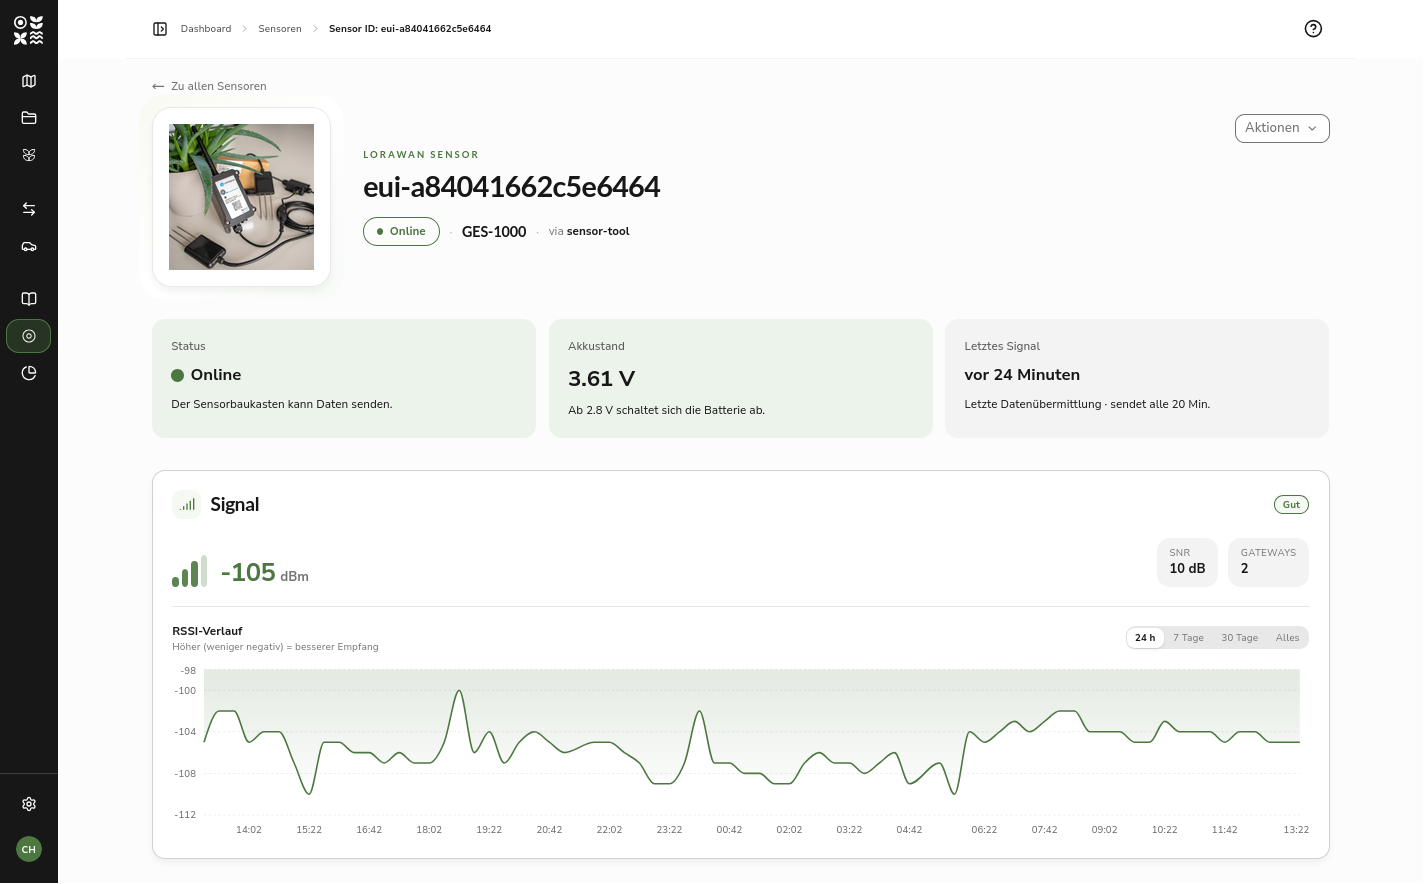
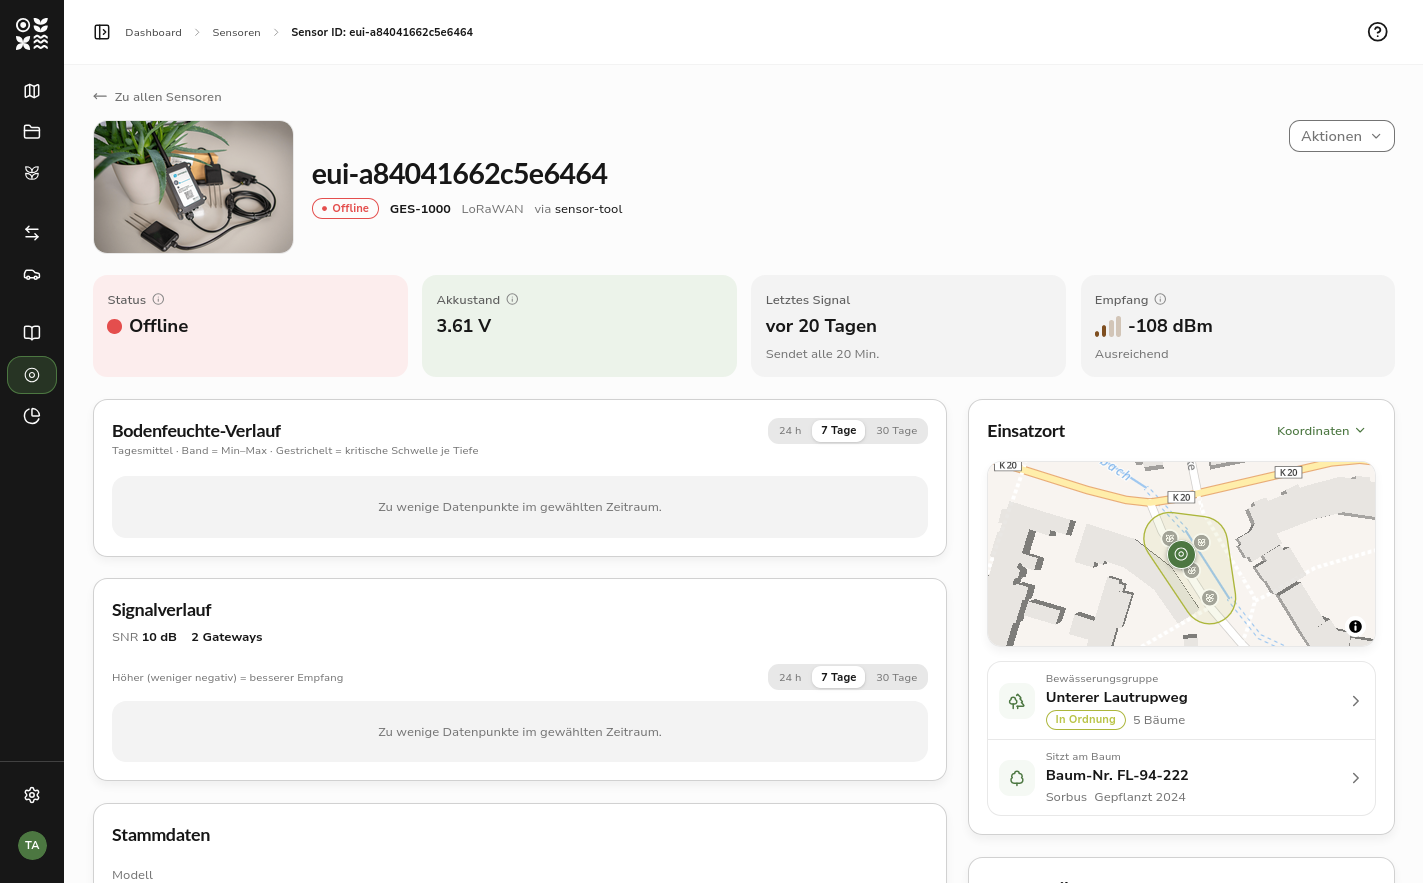
docs(handbook): replace sensor detail screenshot
Shows the redesigned header, KPI tiles and placement card; the figure brief now describes this frame.

diff --git a/frontend/handbook/images/README.md b/frontend/handbook/images/README.md
@@ -112,7 +112,7 @@ out next to the rest:
 | `sensor-list.png`                    | 1440×900  | Sensoren im Blick behalten (`sensors`)                 | The sensor list with the toolbar showing at least one active filter, the resulting chips beneath it, and the result line all in frame; all five filters visible, including **Gruppe**; the row shows the coloured status dot in front of the sensor ID (no status badge), the watering group of the linked tree for at least one sensor, and, at this width, the created-at date.                                                                                                                                                                                                          |
 | `sensor-wizard-qr.png`               | 900×1100  | Sensor einbauen und aktivieren (`sensor-installation`) | The activation wizard on its first step, the QR-scan screen, with the camera viewfinder visible (a paused/idle frame is fine — it does not need to catch an actual scan in progress).                                                                                                                                                                                                                                                                                                                                                                                                      |
 | `sensor-installation.png`            | 1440×900  | Sensor einbauen und aktivieren (`sensor-installation`) | NOT a screenshot: a cross-section drawing of the installation — borehole with sensor 2 at 80 cm and sensor 1 at 40 cm depth, both tilted roughly 45° toward the tree, the Bodeneinbaudose just below the surface above them, and the tree for orientation. German labels for the depths. The source for the geometry is the internal "Sensor einbauen und aktivieren" checklist.                                                                                                                                                                                                           |
-| `sensor-detail.png`                  | 1440×900  | Messwerte und Verknüpfungen (`sensor-readings`)        | A sensor detail page for a moisture or tension sensor with enough history that both the signal-quality chart and the per-depth measurement chart show real curves.                                                                                                                                                                                                                                                                                                                                                                                                                         |
+| `sensor-detail.png`                  | 1440×900  | Messwerte und Verknüpfungen (`sensor-readings`)        | The top of a LoRaWAN sensor detail page: the model photo in the header, all four KPI tiles with a real RSSI value under **Empfang**, the Bodenfeuchte-Verlauf and Signalverlauf cards (their empty "too few data points" state is fine), and the Einsatzort card beside them with map, watering group and the tree the sensor sits on.                                                                                                                                                                                                                                                     |
 | `settings-team-members.png`          | 1440×900  | Team und Rollen (`settings-team`)                      | The "Mitarbeitende" page with a person selected on the left and, on the right, the "Rollen" section expanded so a role assignment is visible.                                                                                                                                                                                                                                                                                                                                                                                                                                              |
 | `settings-team-roles.png`            | 1440×900  | Team und Rollen (`settings-team`)                      | A non-template role open for editing, with at least one area's access-level control expanded to show the individual Ansehen/Anlegen/Bearbeiten/Löschen checkboxes.                                                                                                                                                                                                                                                                                                                                                                                                                         |
 | `settings-organization.png`          | 1440×900  | Organisation (`settings-organization`)                 | The organisation tree on the left with a non-root organisation selected, and on the right its master data including address, contact person, and the "Zugewiesene Mitarbeitende" tile.                                                                                                                                                                                                                                                                                                                                                                                                     |
